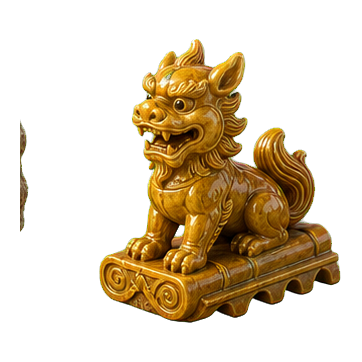
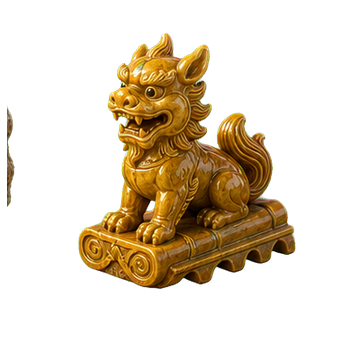
微调三件纪念品视觉重心

diff --git a/猫狗星球_核心循环可玩原型.html b/猫狗星球_核心循环可玩原型.html
@@ -1348,7 +1348,7 @@ const COMPLETE_SOUVENIR_NAMES=[
   '赵州桥石构件','晋商古币','辽代鎏金马具','渤海国瓦当','金代铜镜','明孝陵石像生','三国铜权','海上丝路罗盘','滕王阁诗文卷','齐鲁竹简','龙门石龛残件','编钟残片','马王堆帛书','南越玉印','南海珊瑚信物','夜郎铜鼓','滇王金印','河西简牍','吐谷浑金饰','红砖厝信物','北魏鎏金佛','骆越铜鼓','鎏金小佛像','西夏文残碑','楼兰织锦','漕运铜砝码','元青花瓷片','钓鱼城弩机','维港灯塔模型','葡式瓷砖','刺桐港罗盘','唐三彩马','北宋汴绣','东巴木牌','黄山松石','泰山经石峪刻石','平遥古钱币','土楼夯土砖','九寨彩石','漓江鸬鹚信物','喀纳斯鹿石','鼓浪屿琴键',
   '圣甲虫护符','黑绘陶罐','罗马金币','平安画卷','铜佛残片','神殿石雕','圣索菲亚马赛克','汉谟拉比法典残片','波斯金杯','翡翠面具','黄金太阳盘','古卷残页','佛牙匣残片','中世纪彩窗','泰姬白玉','琥珀宫残片','巨石阵石楔','城堡铜钥','摩尔彩陶','会安锦灯','大城佛首','鎏金塔刹','新罗金冠','突厥金饰','佩特拉石龛','岩石教堂残件','美泉宫瓷盘','布拉格铜钟残件','蒲甘佛塔砖','浮屠石佛','撒马尔罕釉砖','城堡山铜钥'
 ];
-function completeSouvenirArt(s){ const i=COMPLETE_SOUVENIR_NAMES.indexOf(s.name); return i<0?null:`猫狗星球_纪念品美术/全图鉴_居中/s${String(i+1).padStart(3,'0')}.png`; }
+function completeSouvenirArt(s){ const i=COMPLETE_SOUVENIR_NAMES.indexOf(s.name); if(i<0) return null; const n=i+1; const tuned=[6,10,11].includes(n)?'?visual-center=2':''; return `猫狗星球_纪念品美术/全图鉴_居中/s${String(n).padStart(3,'0')}.png${tuned}`; }
 function souvenirArt(s){ return completeSouvenirArt(s)||FEATURED_SOUVENIR_ART[s.name]||s.art||SOUVENIR_ART[souvenirCat(s.name)]; }
 const HOME_SHOWCASE_LIMIT=14;
 const HOME_SHOWCASE_DEFAULT=['西湖团扇','竹叶书签','园林窗棂','陶土兵俑','飞天壁画','故宫脊兽','武陵石峰','鎏金坛城','木鱼','太极玉牌','南海潮音贝','唐三彩马','星屑瓶','古境徽记'];
